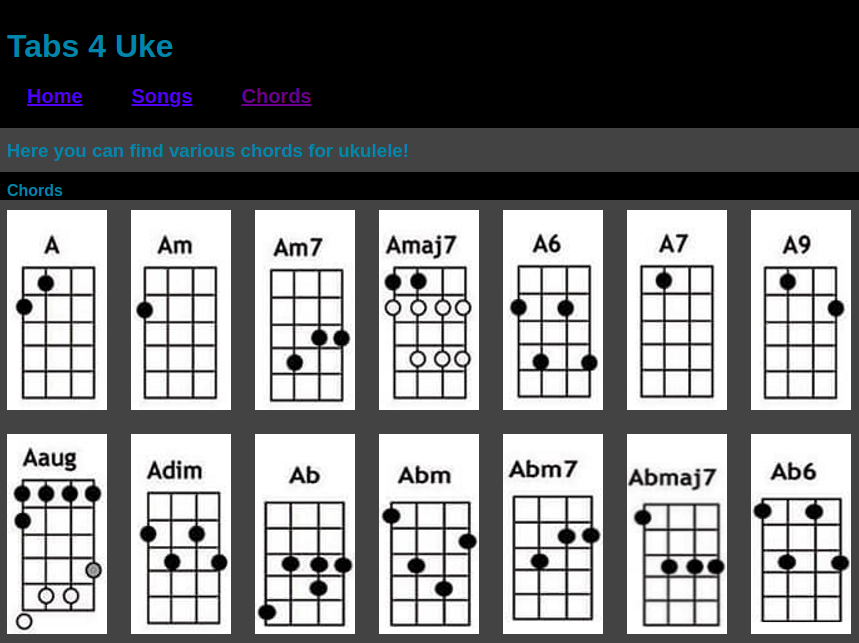
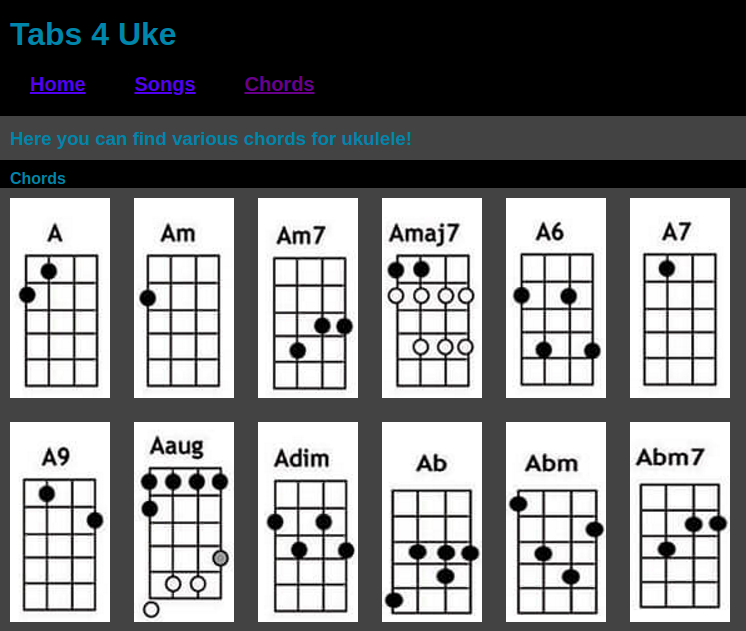
Change iframe to png

diff --git a/scholarship.html b/scholarship.html
@@ -76,17 +76,25 @@
 
 		<h2>2020</h2>
 		<h3>To Be Announced Soon</h3>
+		<div class="row align-items-center">
+			<div class="col-12 col-md-6">
+
+			</div>
+			<div class="col-12 col-md-6">
+
+			</div>
+		</div>
 
 		<hr>
 
 		<h2>2019</h2>
 		<h3>Caleb Reno - <a href="scholarship-recipients/2019/Chords.html">Ukulele Tablature</a></h3>
-		<div class="row">
+		<div class="row align-items-center">
 			<div class="col-12 col-md-6">
-				<iframe src="scholarship-recipients/2019/Chords.html"></iframe>
+				<a href="scholarship-recipients/2019/Chords.html"><img class="img-fluid border border-white" src="scholarship-recipients/2019/screenshot.png" alt=""></a>
 			</div>
 			<div class="col-12 col-md-6">
-				<img class="img-fluid" src="scholarship-recipients/2019/recipient.jpg" alt="">
+				<img class="img-fluid border border-white" src="scholarship-recipients/2019/recipient.jpg" alt="">
 			</div>
 		</div>
 		<p></p>

diff --git a/index.css b/index.css
@@ -26,13 +26,6 @@ hr {
   border: 1px solid white;
 }
 
-iframe {
-  height: 100%;
-  width: 100%;
-  border: none;
-  pointer-events: none;
-}
-
 .container {
   margin-top: 25px;
   background: rgba(25, 25, 25, 0.65);
